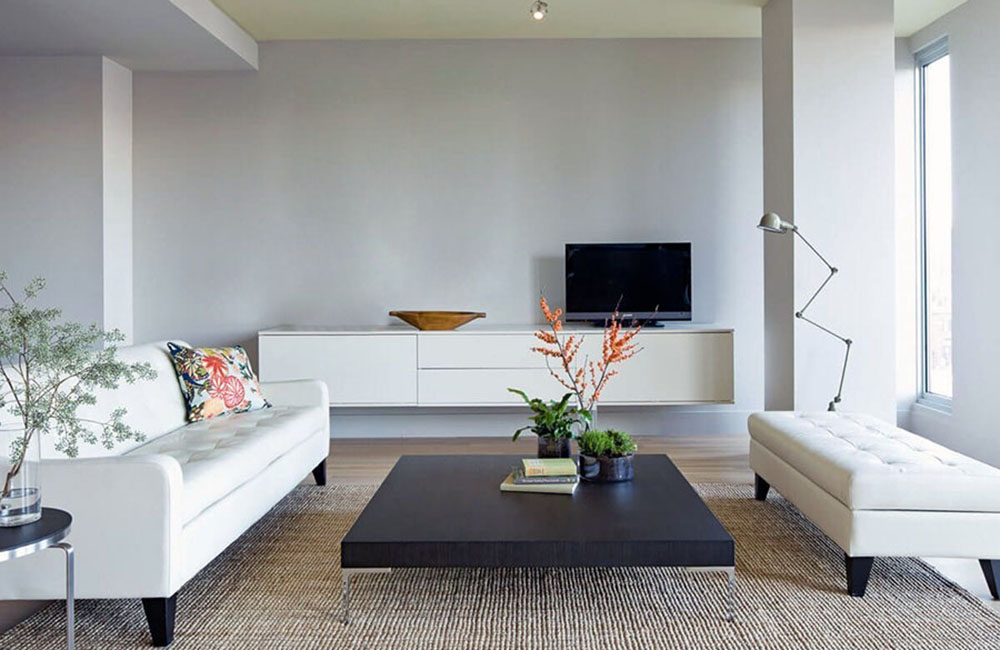
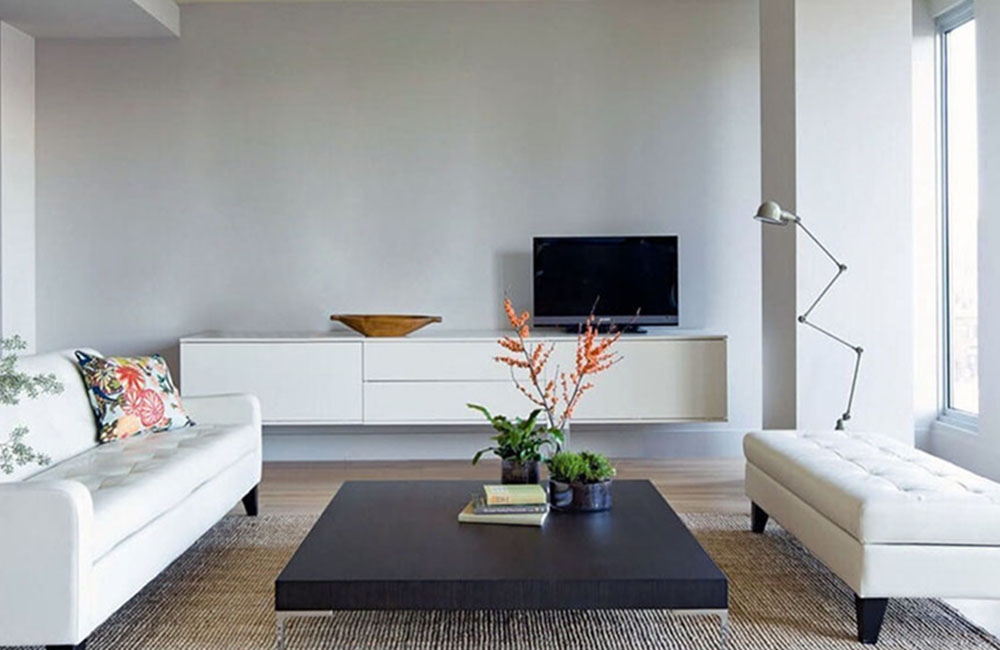
edit size buttons

diff --git a/src/components/pages/photo/photopicture/index.js b/src/components/pages/photo/photopicture/index.js
@@ -17,8 +17,13 @@ const Photopicture = () => {
     boxShadow: "-3px 1px 7px 1px rgba(17, 24, 16, 0.5)"
   };
 
+  const initDefaultImageSize={
+    widthSize:"15%"
+  }
+
   const dispatch = useDispatch();
   const [currentPicture, SetCurrentPicture] = useState(initCurrentPicture);
+  const [imageSize,SetImageSize]=useState(initDefaultImageSize);
   const [selectImage, setSelectImage] = useState(null);
   const hiddenFileInput = useRef(null);
 
@@ -74,8 +79,8 @@ const Photopicture = () => {
     },
     {
       nameImage: "images/services/photo/interiors/3.jpg",
-      locationTop: "30%",
-      locationLeft: "52%",
+      locationTop: "32%",
+      locationLeft: "48%",
       boxShadow: "0px 3px 7px 1px rgba(17, 24, 16, 0.5)"
     },
     {
@@ -101,48 +106,12 @@ const Photopicture = () => {
   //const pictureUser = "images/services/photo/interiors/picture.jpg";
 
   const buttonsItems = [
-    { title: "20x30" },
-    { title: "30x40" },
-    { title: "40x60" },
-    { title: "50x70" },
-    { title: "60x90" }
+    { title: "20x30", size: "4.5%" },
+    { title: "30x40", size: "8%" },
+    { title: "40x60", size: "10.5%" },
+    { title: "50x70", size: "13%" },
+    { title: "60x90", size: "15%" }
   ];
-
-  // const interior1 = "images/services/photo/interiors/1.jpg";
-  // const interior2 = "images/services/photo/interiors/2.jpg";
-  // const interior3 = "images/services/photo/interiors/3.jpg";
-  // const interior4 = "images/services/photo/interiors/4.jpg";
-  // const interior5 = "images/services/photo/interiors/5.jpg";
-  // const interior6 = "images/services/photo/interiors/6.jpg";
-  // const pictureUser = "images/services/photo/interiors/picture.jpg";
-
-  // const changeMainImage = (thumbnail) => {
-  //   var mainImage = document.getElementById('mainImage');
-  //   mainImage.src = thumbnail.src;
-  //   mainImage.alt = thumbnail.alt;
-
-  // }
-
-  // const openFileSelector = () => {
-  //   const input = document.createElement("input");
-  //   input.type = "file";
-  //   // input.accept = "image/*";
-  //   input.onchange = handleFileSelect();
-  //   input.click();
-  // }
-
-  // const handleFileSelect = (e) => {
-  //   const file = e.target.files[0];
-  //   if (file) {
-  //     const reader = new FileReader();
-  //     reader.onload = function (e) {
-  //       const img = document.getElementById("selectedImage");
-  //       img.src = e.target.result;
-  //       img.style.display = "block";
-  //     };
-  //     reader.readAsDataURL(file);
-  //   }
-  // }
 
   const zoomInProperties = {
     indicators: true,
@@ -273,6 +242,7 @@ const Photopicture = () => {
                               <button
                                 type="button"
                                 class="btn btn-lg btn-outline-success text-dark"
+                                onClick={() => SetImageSize(item.size)}
                               >
                                 {item.title}
                               </button>
@@ -315,6 +285,7 @@ const Photopicture = () => {
                       style={{
                         top: currentPicture.locationTop,
                         left: currentPicture.locationLeft,
+                        width: imageSize,
                         boxShadow: currentPicture.boxShadow
                       }}
                       alt="Картина"
